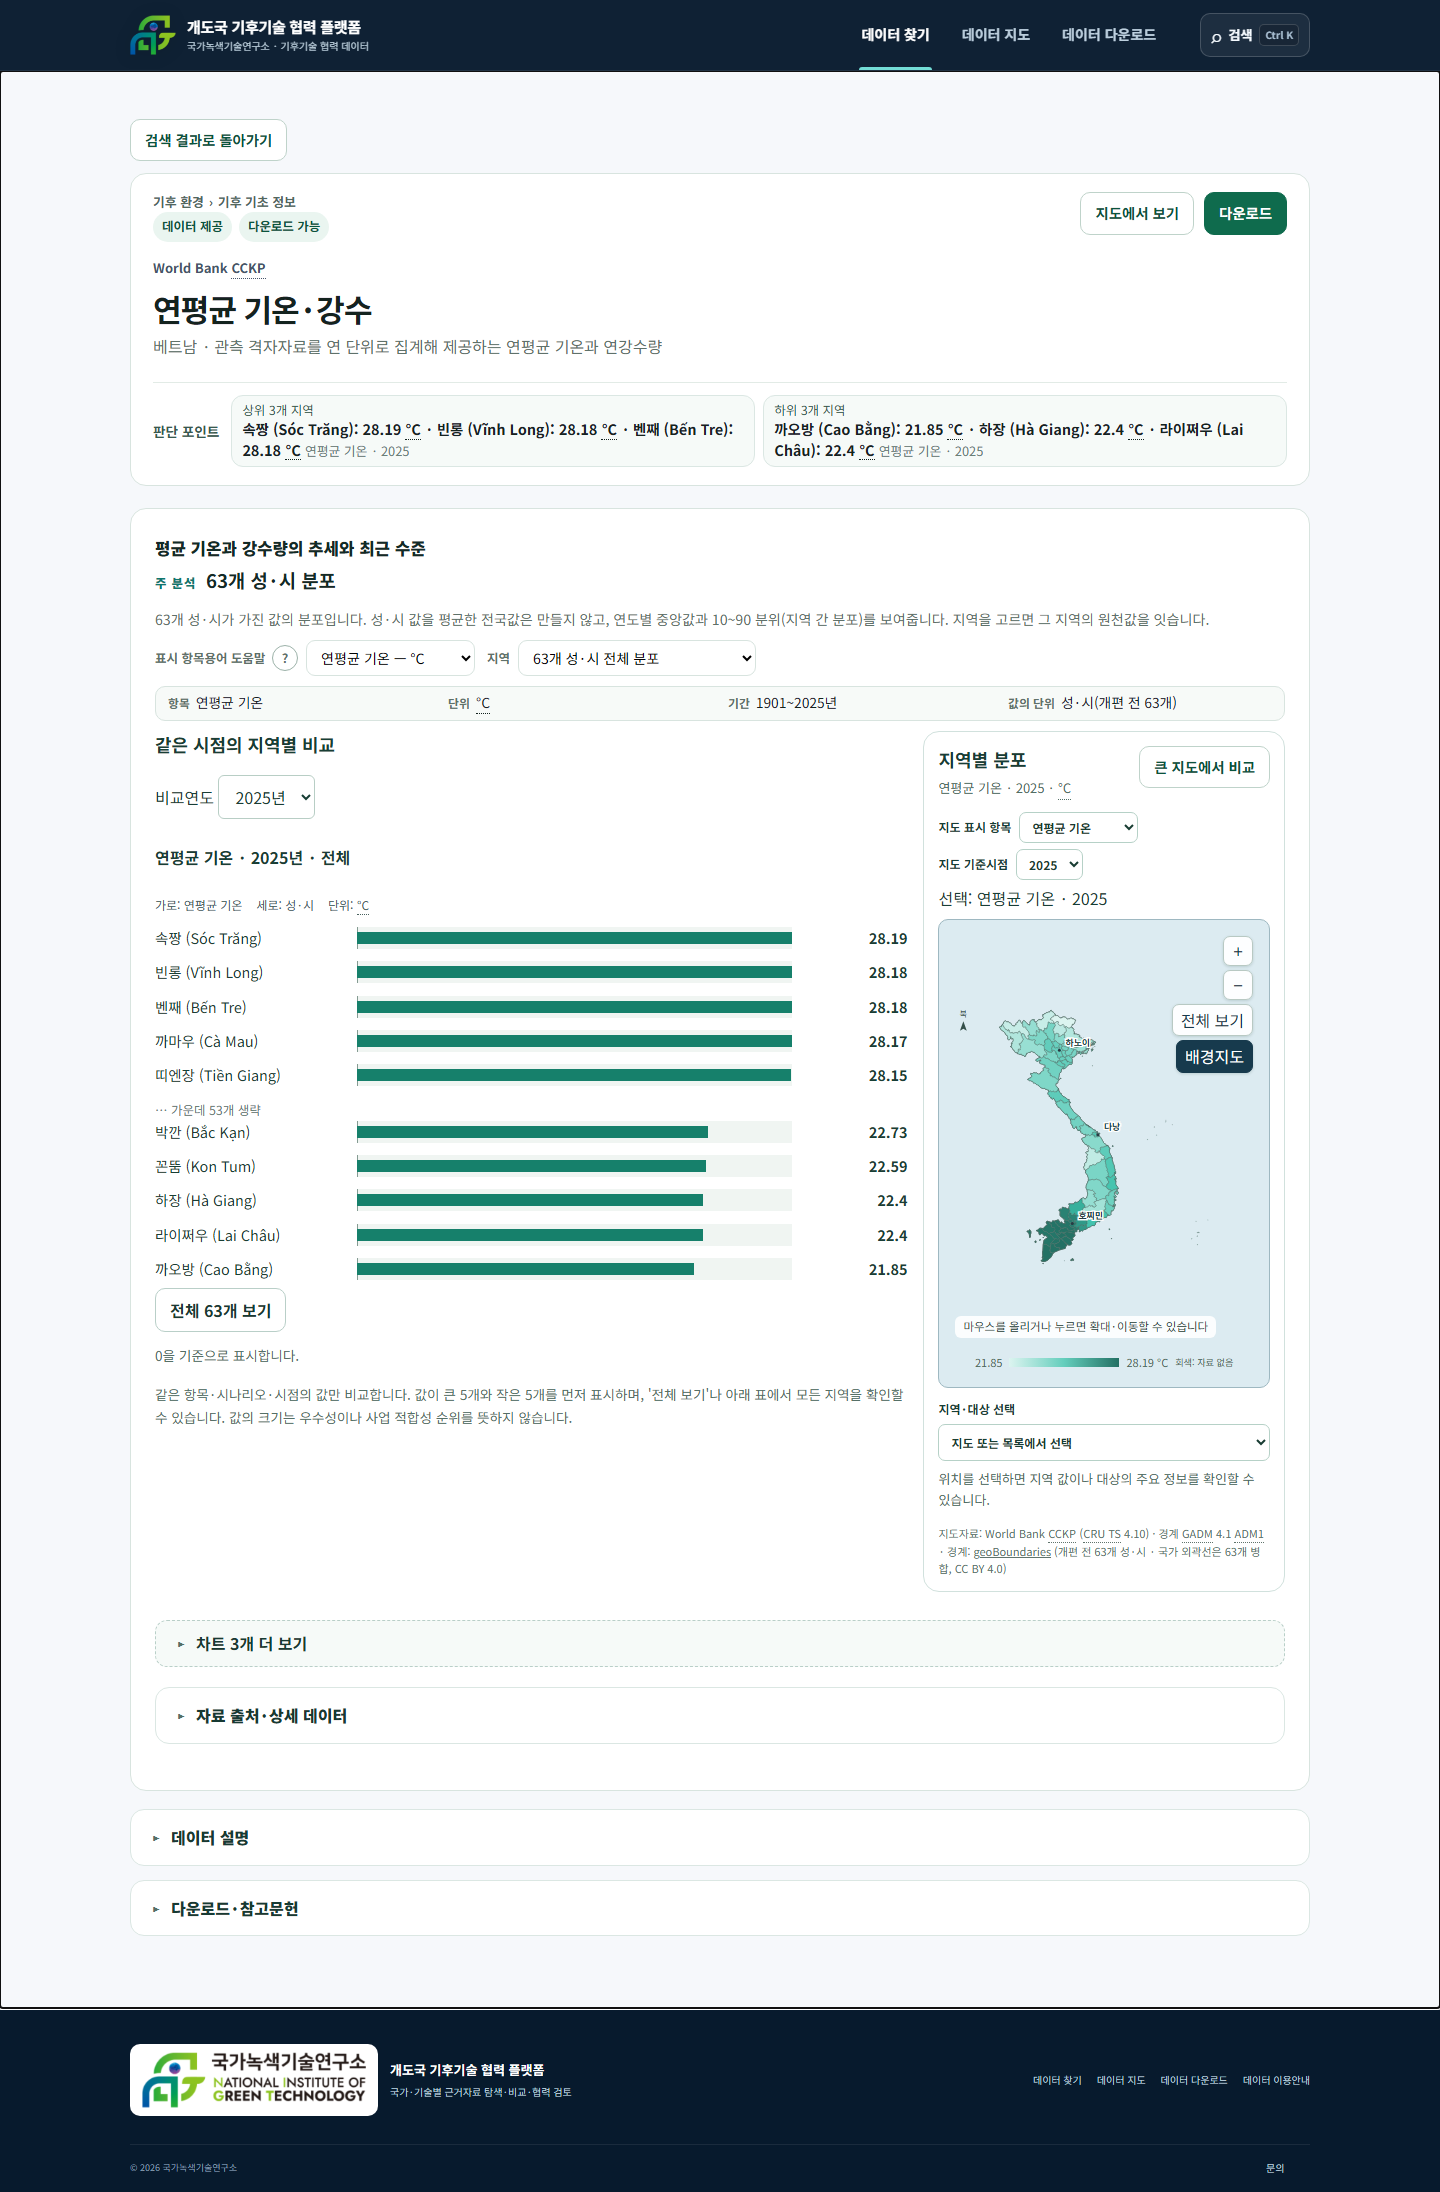
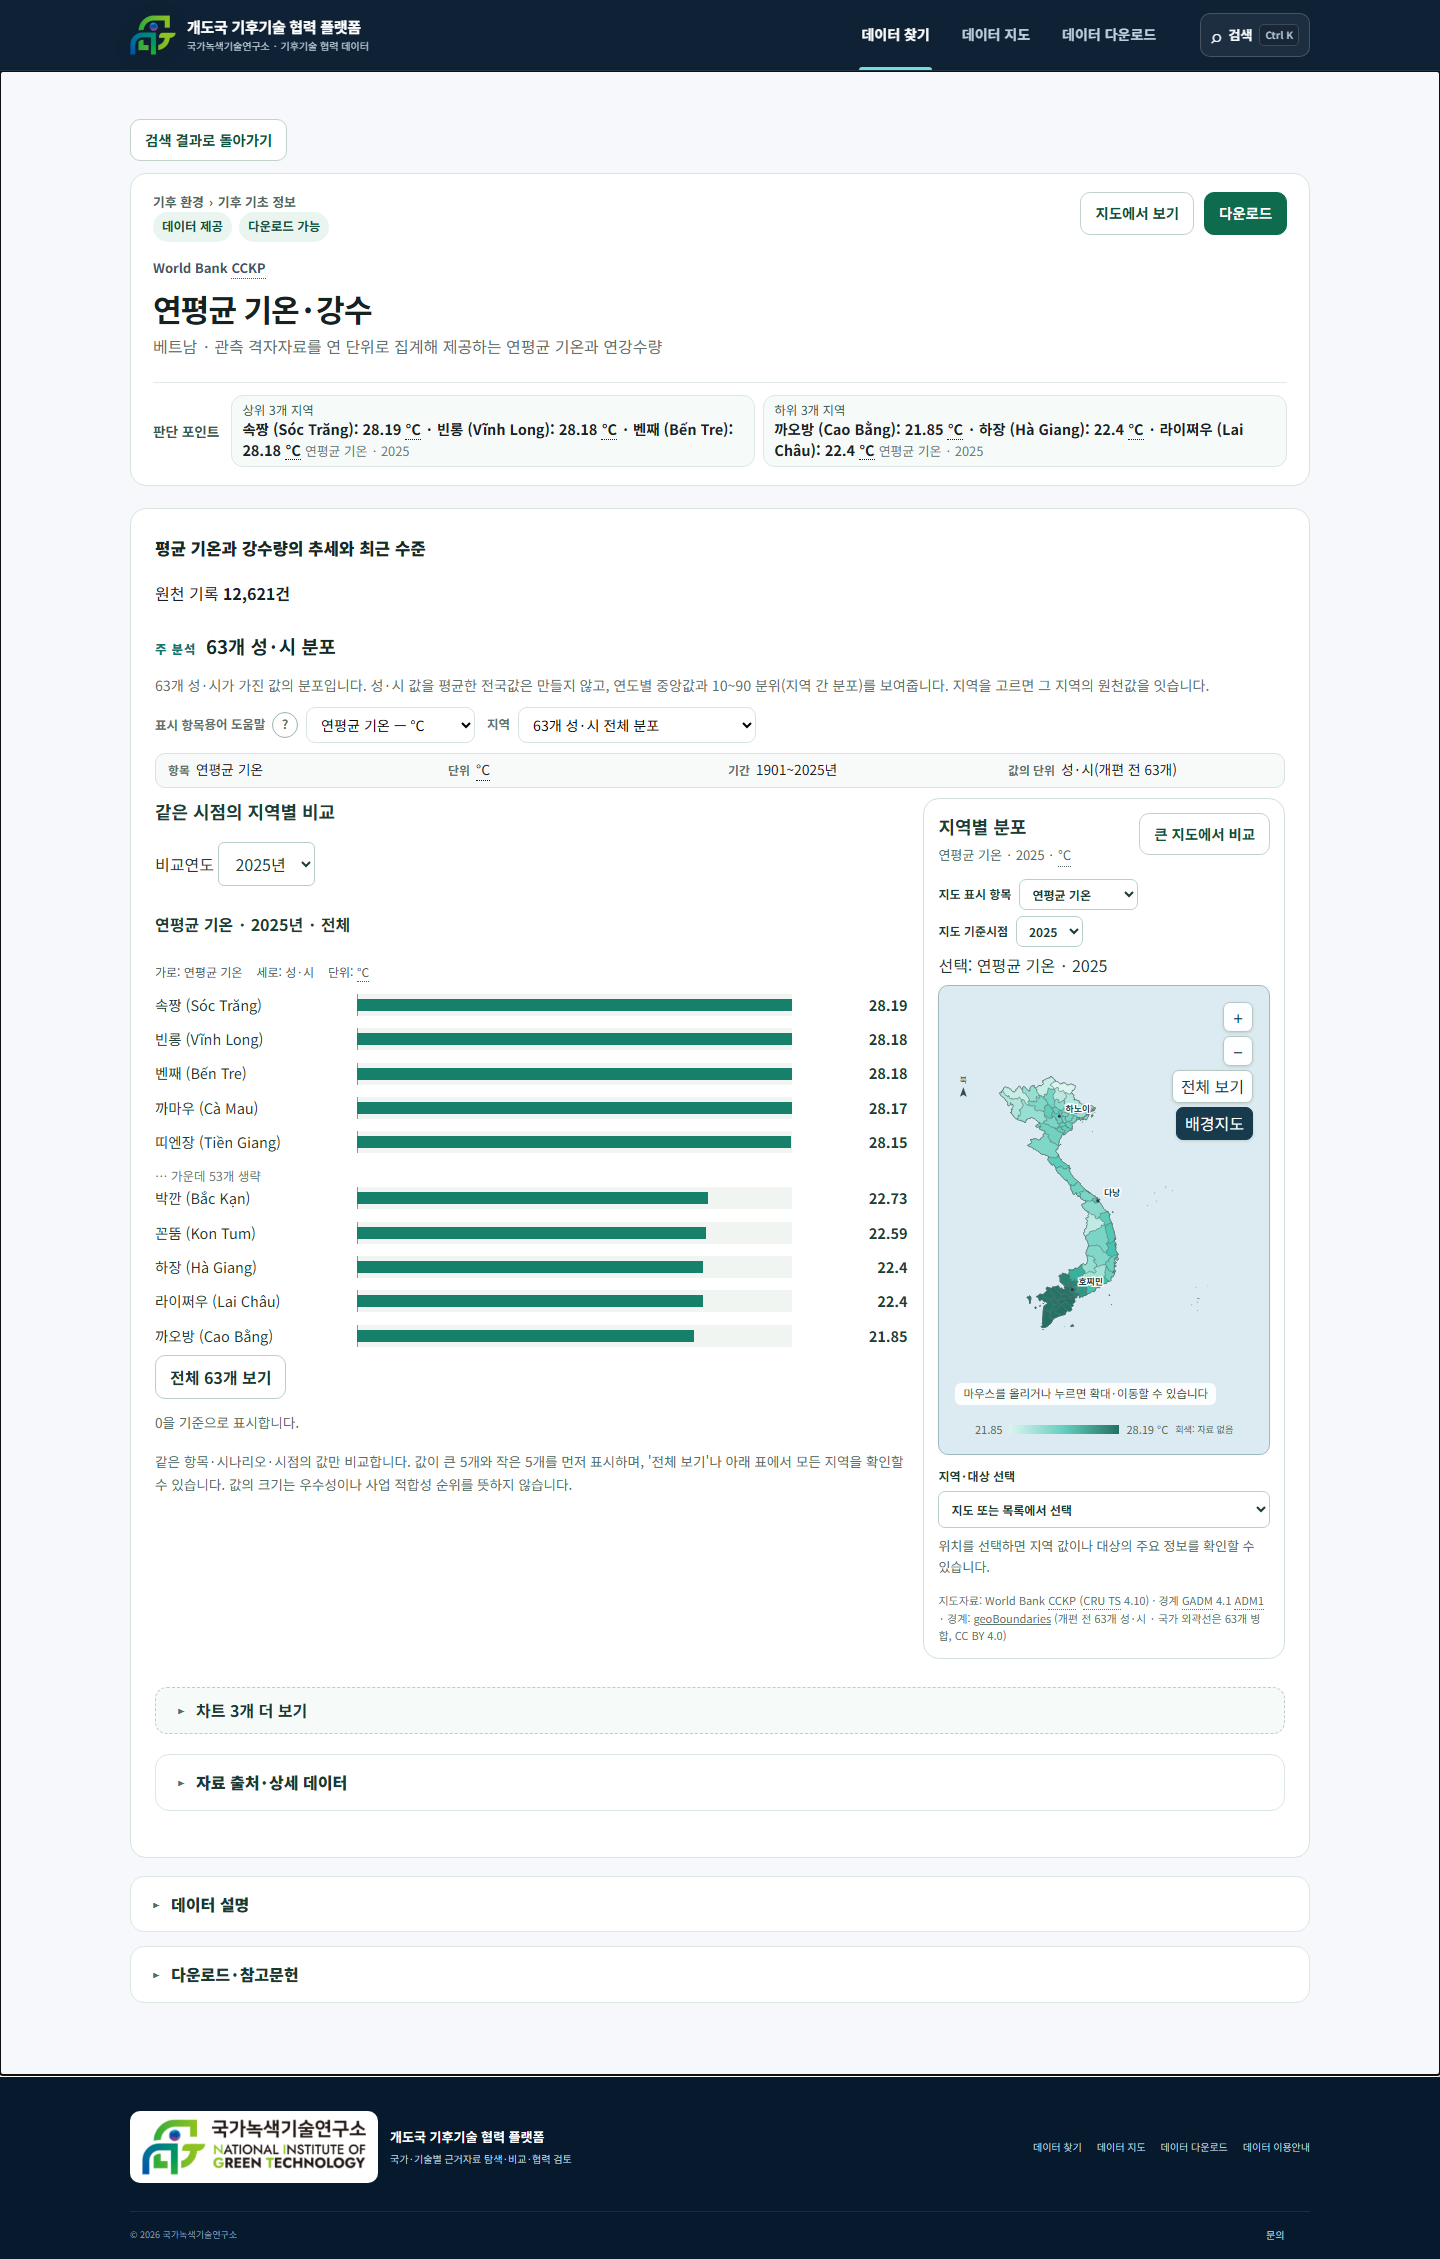
fix(v162): 판단 포인트 — 가로형 블록 접두 열 이름 대조(C-017·C-009·C-013 상태 포인트 복원), PR 본문 갱신

diff --git a/src/data/structure/S4EntityV159.ts b/src/data/structure/S4EntityV159.ts
@@ -66,16 +66,30 @@ function normalizeKey(key: string): string {
     .replace(/[_\s]/gu, "");
 }
 
+/**
+ * V162: the 2026-09-30 wide template prefixes each column with its block
+ * ("기간_시행일", "제도_상태", "식별_레코드명"). The block is where the column
+ * sits, not what it means; a key matches a candidate with or without it.
+ * A full-key match still wins over a block-stripped one.
+ */
+function blockStrippedKey(key: string): string | null {
+  const match = key.match(/^[가-힣]+_(.+)$/u);
+  return match ? normalizeKey(match[1]) : null;
+}
+
 function findAttribute(
   attrs: Record<string, unknown>,
   candidates: readonly string[]
 ): { key: string; value: unknown } | null {
   const normalizedCandidates = candidates.map(normalizeKey);
+  let stripped: { key: string; value: unknown } | null = null;
   for (const [key, value] of Object.entries(attrs)) {
     if (value === null || value === undefined || value === "") continue;
     if (normalizedCandidates.includes(normalizeKey(key))) return { key, value };
+    const blockless = blockStrippedKey(key);
+    if (!stripped && blockless && normalizedCandidates.includes(blockless)) stripped = { key, value };
   }
-  return null;
+  return stripped;
 }
 
 function findAllAttributes(
@@ -86,7 +100,8 @@ function findAllAttributes(
   const values: unknown[] = [];
   for (const [key, value] of Object.entries(attrs)) {
     if (value === null || value === undefined || value === "") continue;
-    if (normalizedCandidates.includes(normalizeKey(key))) values.push(value);
+    const blockless = blockStrippedKey(key);
+    if (normalizedCandidates.includes(normalizeKey(key)) || (blockless && normalizedCandidates.includes(blockless))) values.push(value);
   }
   return values;
 }

diff --git a/reports/v162/PR_BODY.md b/reports/v162/PR_BODY.md
@@ -20,7 +20,7 @@
   - C-025 사업 단위 점(1,133→341)
   - B-008 관측소 묶음, B-023·B-028 분할 지표
   - V157 레코드 지역 사이드카 재추출
-  - 국가 비교 54 유지(B-046 레코드 계열)
+  - 국가 비교 54 유지(B-046 레코드 계열). E-011(NRI, 9/30 입고)은 비교 보류 목록 — PR-D에서 포함(55)
 - **공개 문구**
   - 공급사 이전 메모('[열→행 전개] 구서식 열…', '(레코드ID …)', '본 파일 rN')·파일명 비노출
   - '현지조사' → '현장 확인'(블록 제목과 같은 말)
@@ -30,7 +30,7 @@
 상세: `reports/v162/PROGRESS.md` · 기대값 변경 사유: `reports/v162/EXPECTATION_CHANGES_V162.md`
 
 ## Preview
-PREVIEW_URL
+https://nigtldcmap-git-feat-v162-data-refresh-exoprime-5142s-projects.vercel.app
 
 ## 화면이 바뀌는 페이지와 확인 경로
 | 페이지 | 확인 경로 | 바뀌는 점 |
@@ -88,6 +88,25 @@ PREVIEW_URL
 | C-003 | 0 | 272 | 0 | 0 | 0 | — |
 | C-006 | 0 | 38 | 0 | 0 | 0 | — |
 | C-017 | 0 | 56 | 0 | 1 | 1 | — |
+
+## 이번 PR에서 고친 화면 결함(새 납품 기인)
+- C-018 전원별 설비용량 막대가 비던 회귀('(년)' 표기 제거 뒤 열 조회 실패)
+- C-005 '우선순위 기술' 카드에 기술명·평가 점수 미표시([기술] 블록 전체 숨김)
+- C-005 장벽 404/408건·C-004·C-014 카드 제목 중복 → 원문 값으로 구분
+- B-012 재해 유형 분석 대신 '192개 성·시 분포'가 나오던 결함(등록부는 지역 요약 제외)
+- B-017 평가구역 4,664개로 잘못 셈(순위표 행 혼입) → 443개
+- E-009 연도별 값 입고 후 표 값 '—'·막대 사라짐 → 최신 공통 연도(2016)
+- E-011 옛 TRL '역량 상태 카드' → NRI 점수·순위 추세, 분석 제목 표시
+- B-038 측정항목명 '[산출 투입 · % 인구' 깨짐 → 꼬리표를 분류로
+- 찾기 카드 B-014·B-046·B-047·B-044 레코드 키(VNM_…) 노출, C-008 출처 파일명·public_id 노출 제거
+- 카드-상세 불일치 복원: B-001·B-002·B-025·B-032·A-027·A-028·A-030·C-018·C-022·D-024
+- 용어: 새 문구 약어 44개 용어집 등록, 링크·속성명 풀이
+- C 계열 상세 상단 '판단 포인트'(상태 건수 등)가 사라지던 회귀(블록 접두 열 이름) → C-017·C-009·C-013 복원
+
+## CI 판정 기록
+- 1~3회차 실패 원인: B-025 제목·B-005·E2E 값(1·2회차), 개체 카드·가뭄·D-022 분류 등(2회차), v132 보고서 런타임 필드 초기화(3회차)
+- 4회차: v132 보고서를 현재 화면 계약 기준으로 생성 + 런타임 감사 152/152(로컬 1회 통과 결과 동봉)
+- E2E 시각 기준 이미지 4장(홈·찾기·A-016·D-011): main(#55)에서도 같은 실패 — 기준 이미지가 V139 화면. 이 PR 범위 밖, P5(p5:final)에서 재생성(사용자 결정 10-01)
 
 ## 단위 테스트 42건 분류
 - 파손(코드 수정)

diff --git a/reports/v162/EXPECTATION_CHANGES_V162.md b/reports/v162/EXPECTATION_CHANGES_V162.md
@@ -78,3 +78,4 @@
 | `audit:visualization-runtime:v132` | 152개 모두 분석 화면으로 대기, 대표 반응형 검사 목록에 A-017·E-008 | 공개 제외 6개(A-017·C-020·C-021·E-008·E-016·E-017)는 제외 안내 화면으로 검증(안내 카드 있음·분석 영역·차트 없음), 대표 목록의 A-017→A-030·E-008→E-009(같은 유형, 21×5=105 유지), 포트폴리오 필터는 V143 작업공간 검색 영역도 인정, 전용 화면 표식 대기(최대 15초) | 2026 제외 결정으로 분석 화면이 없는 URL에서 시간 초과로 감사가 중단되던 문제. V143 이후 필터 위치 변경을 인식 못 하던 문제 |
 | 의미 계약 빌더 지표명 꼬리표(코드 수정) | '·'로 나눠 '[산출 투입'이 측정항목명 | 앞머리 '[…]' 꼬리표는 떼어 분류(category) 차원 앞에 둠 | 새 납품 B-038 9개·A-030 4개 지표명에 '[산출 투입·참고자료]'·'[보조]' 꼬리표 — 화면에 '[산출 투입 · % 인구'가 측정항목으로 보이던 결함 |
 | 카드 A-030 | 보조(KITA) 계열 총 교역액 2024 | 본 계열 총 교역액(수출액과 수입액의 합) — 국가 비교 키도 A-030_trade_total | 꼬리표가 분류로 옮겨져 같은 측정항목 안에서 본 계열을 고름 |
+| 판단 포인트(S4 어댑터, 코드 수정) | 속성N_ 접두만 제거해 열 이름 대조 | 가로형 블록 접두('기간_', '제도_' 등)를 뗀 이름으로도 대조(전체 이름 일치 우선) | 새 납품 C 계열에서 상태·건수 판단 포인트가 사라지던 회귀(C-017·C-009·C-013 복원) |
